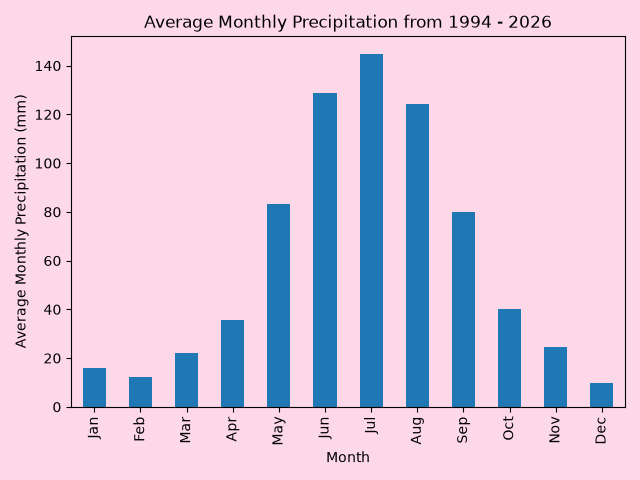
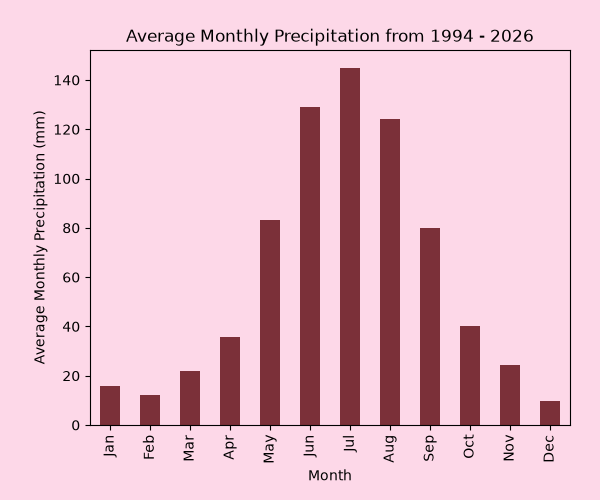
Changing colour of charts and aligning them

Changed region(s): [[0.0, 0.0312, 0.99, 0.9688], [0.15, 0.0938, 0.18, 0.125]]

diff --git a/Data/charts.py b/Data/charts.py
@@ -6,32 +6,29 @@ data = pd.read_csv("combined_data.csv")
 # Chart 1 - average temperature 
 monthly_avg = data.groupby("Month")["Temperature"].mean()
 
-plt.figure() # creates a new figure so that the two charts don't overlap
-
-plt.figure(facecolor="#fdd8e8") # sets background colour of chart 
-monthly_avg.plot(kind="line", marker="o") # marker="o" just draws a small dot at each actual data point on top of the line, which makes it easier to read exact values.
+plt.figure(figsize=(6,5), facecolor="#fdd8e8") # sets background colour of chart 
+monthly_avg.plot(kind="line", marker="o", color="#7B3039") # marker="o" just draws a small dot at each actual data point on top of the line, which makes it easier to read exact values.
 plt.gca().set_facecolor("#fdd8e8") # sets background colour of chart - colours inner plot area specifically
 
 plt.title("Average Monthly Temperature from 1994 - 2026")
 plt.xlabel("Month")
 plt.ylabel("Average Monthly Temperature (°C)")
 plt.xticks(range(1, 13), labels=["Jan", "Feb", "Mar", "Apr", "May", "Jun", "Jul", "Aug", "Sep", "Oct", "Nov", "Dec"]) # makes sure all 12 months show up on the x-axis
+plt.subplots_adjust(left=0.15, right=0.95, top=0.9, bottom=0.15) # making the charts centred in the image
 plt.savefig("average_monthly_temperature.png", facecolor="#fdd8e8") # saves the chart to a file, and sets the background colour of the saved image
 
 # Chart 2 - average precipitation
 monthly_avg_precip = data.groupby("Month")["Precipitation"].mean()
 
-plt.figure() # creates a new figure so that the two charts don't overlap
-
-plt.figure(facecolor="#fdd8e8") # sets background colour of chart 
-monthly_avg_precip.plot(kind="bar")
+plt.figure(figsize=(6,5), facecolor="#fdd8e8") # sets background colour of chart 
+monthly_avg_precip.plot(kind="bar", color="#7B3039")
 plt.gca().set_facecolor("#fdd8e8") # sets background colour of chart - colours inner plot area specifically
 
 plt.title("Average Monthly Precipitation from 1994 - 2026")
 plt.xlabel("Month")
 plt.ylabel("Average Monthly Precipitation (mm)")
 plt.xticks(range(0, 12), labels=["Jan", "Feb", "Mar", "Apr", "May", "Jun", "Jul", "Aug", "Sep", "Oct", "Nov", "Dec"]) # makes sure all 12 months show up on the x-axis
-plt.tight_layout() # makes sure the x-axis labels don't get cut off
+plt.subplots_adjust(left=0.15, right=0.95, top=0.9, bottom=0.15) # making the charts centred in the image
 plt.savefig("average_monthly_precipitation.png", facecolor="#fdd8e8") # saves the chart to a file, and sets the background colour of the saved image
 
 print("Saved both charts")
